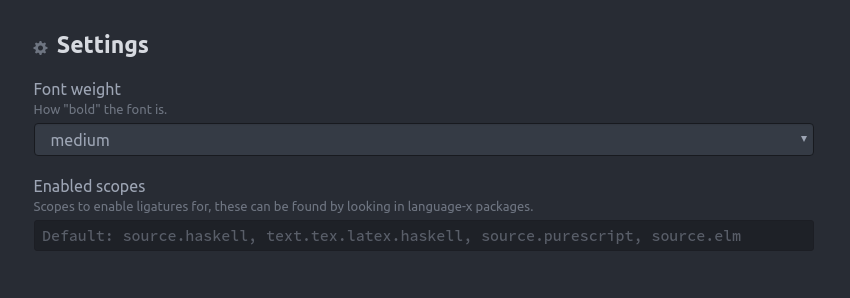
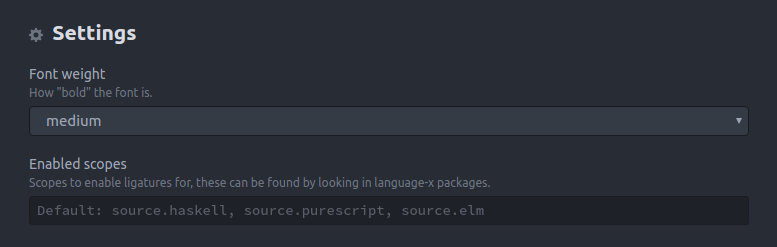
Add calt

diff --git a/lib/hasklig.js b/lib/hasklig.js
@@ -6,21 +6,18 @@ function onHaskligWeightChange(weight) {
 
 function onEnabledScopesChange(scopes) {
     let sheet = document.getElementById(HASKLIG_STYLESHEET_ID)
-    if (sheet != null) {
-        sheet.parentNode.removeChild(sheet)
+    if (sheet == null) {
+        sheet = document.createElement('style')
+        sheet.setAttribute('id', HASKLIG_STYLESHEET_ID)
+        document.body.appendChild(sheet)
     }
-
-    sheet = document.createElement('style')
-    sheet.setAttribute('id', HASKLIG_STYLESHEET_ID)
 
     sheet.innerHTML = scopes.map((scope) => {
         let dataGrammar = scope.split('.').join(' ')
         return `atom-text-editor[data-grammar='${dataGrammar}'] {\n`
-             + `    font-feature-settings: 'liga' 1;\n`
+             + `    font-feature-settings: 'liga' on, 'calt' on;\n`
              + `}\n`
     }).join('\n')
-
-    document.body.appendChild(sheet)
 }
 
 function load() {

diff --git a/lib/main.js b/lib/main.js
@@ -21,7 +21,7 @@ module.exports = {
         enabledScopes: {
             type: 'array',
             title: 'Enabled scopes',
-            description: 'Scopes to enable ligatures for, these can be found by looking in language-x packages.',
+            description: 'Scopes to enable ligatures for. These can be found by looking in the language-x package for language x. Note that for some syntaxes some ligatures might not work due to the tokeniser (e.g. the JavaScript tokeniser breaks -> into two symbols).',
             default: ['source.haskell', 'source.purescript', 'source.elm'],
             order: 2
         }

diff --git a/styles/functions.less b/styles/functions.less
@@ -12,14 +12,14 @@
 .hasklig-font ( @name ) {
     atom-text-editor {
         font-family: @name;
-        font-feature-settings: 'liga' 0;
+        font-feature-settings: 'liga' off, 'calt' off;
     }
     atom-text-editor::shadow {
         .comment {
             font-style: italic;
         }
         .string {
-            font-feature-settings: "liga" 0;
+            font-feature-settings: 'liga' off, 'calt' off;
         }
     }
 }
